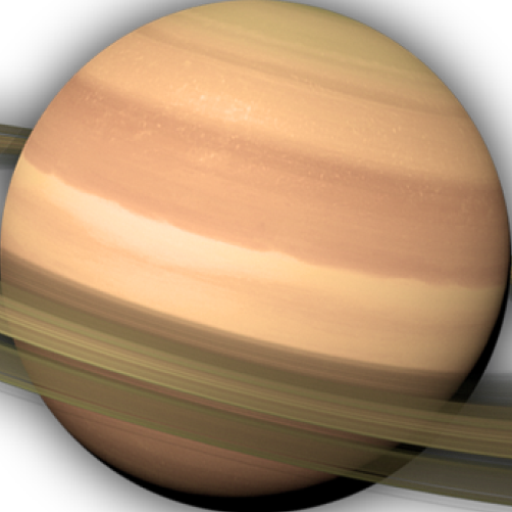
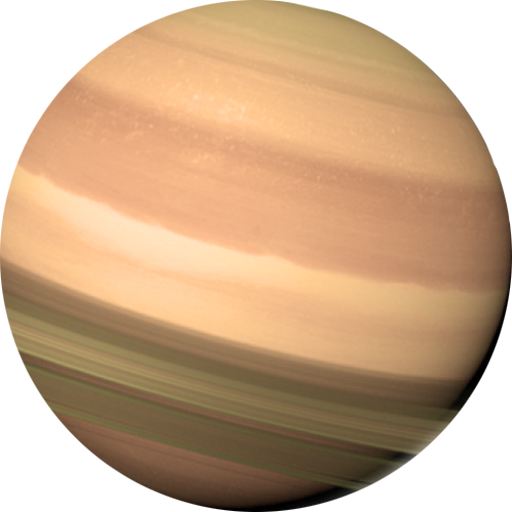
adjusted the navigation image

diff --git a/src/App.js b/src/App.js
@@ -57,44 +57,52 @@ function App() {
                     <nav>
                         <div className="nav-circle">
                             <div className="planet-link-circle">
-                                <div className='merImg'>
-                                    <Link to="/Mercury"><div className="planet-link-circle">Mercury</div></Link>
-                                </div>
+                                <Link to="/Mercury">
+                                    <div class="merImg"></div>
+                                    <div class="text-container">Mercury</div>
+                                </Link>
                             </div>
                             <div className="planet-link-circle">
-                                <div className='venImg'>
-                                    <Link to="/Venus"><div className="planet-link-circle">Venus</div></Link>
-                                </div>
+                                <Link to="/Venus">
+                                    <div class="venImg"></div>
+                                    <div class="text-container">Venus</div>
+                                </Link>
                             </div>
                             <div className="planet-link-circle">
-                                <div className='earImg'>
-                                    <Link to="/Earth"><div className="planet-link-circle">Earth</div></Link>
-                                </div>
+                                <Link to="/Earth">
+                                    <div class="earImg"></div>
+                                    <div class="text-container">Earth</div>
+                                </Link>
                             </div>
                             <div className="planet-link-circle">
-                                <div className='marImg'>
-                                    <Link to="/Mars"><div className="planet-link-circle">Mars</div></Link>
-                                </div>
+                                <Link to="/Mars">
+                                    <div class="marImg"></div>
+                                    <div class="text-container">Mars</div>
+                                </Link>
                             </div>
                             <div className="planet-link-circle">
-                                <div className='jupImg'>
-                                    <Link to="/Jupiter"><div className="planet-link-circle">Jupiter</div></Link>
-                                </div>
+                                <Link to="/Jupiter">
+                                    <div class="jupImg"></div>
+                                    <div class="text-container">Jupiter</div>
+                                </Link>
                             </div>
                             <div className="planet-link-circle">
-                                <div className='satImg'>
-                                    <Link to="/Saturn"><div className="planet-link-circle">Saturn</div></Link>
-                                </div>
+                                <Link to="/Saturn">
+                                    <div class="satImg"></div>
+                                    <div class="text-container">Saturn</div>
+                                </Link>
                             </div>
                             <div className="planet-link-circle">
-                                <div className='uraImg'>
-                                    <Link to="/Uranus"><div className="planet-link-circle">Uranus</div></Link>
-                                </div>
+                                <Link to="/Uranus">
+                                    <div class="uraImg"></div>
+                                    <div class="text-container">Uranus</div>
+                                </Link>
                             </div>
                             <div className="planet-link-circle">
-                                <div className='nepImg'>
-                                    <Link to="/Neptune"><div className="planet-link-circle">Neptune</div></Link>
-                                </div>
+                                <Link to="/Neptune">
+                                    <div class="nepImg"></div>
+                                    <div class="text-container">Neptune</div>
+                                </Link>
                             </div>
                         </div>
                     </nav>

diff --git a/src/App.css b/src/App.css
@@ -66,7 +66,6 @@ h2 {
   justify-content: center;
   margin: 10px;
   transition: width 1s, height 1s, background-color 1s, transform 1s;
-  transform: rotate(0deg);
 }
 
 .planet-link-circle a {
@@ -74,65 +73,113 @@ h2 {
   color: aliceblue;
   text-shadow: 3px 3px 2px #6a186a;
   text-decoration: none;
+  position: relative;
 }
 
-.merImg :hover {
+.text-container {
+  position: absolute;
+  top: 50%;
+  left: 50%;
+  transform: translate(-50%, -50%);
+  z-index: 1;
+  font-weight: bold;
+  text-shadow: -3px 0 #6a186a, 0 3px #6a186a, 3px 0 #6a186a, 0 -3px #6a186a;
+}
+
+.merImg {
   background-image: url("images/mercury.png");
   background-size: cover;
-  color: #000;
-  font-weight: bold;
-  text-shadow: -1px 0 #6a186a, 0 1px #6a186a, 1px 0 #6a186a, 0 -1px #6a186a;
+  width: 120px;
+  height: 120px;
+  transition: transform 3s;
 }
 
-.venImg :hover {
+.merImg:hover {
+  transform: rotate(360deg);
+}
+
+.venImg {
   background-image: url("images/venus.png");
   background-size: cover;
-  color: #000;
-  font-weight: bold;
-  text-shadow: -1px 0 #6a186a, 0 1px #6a186a, 1px 0 #6a186a, 0 -1px #6a186a;
+  width: 120px;
+  height: 120px;
+  transition: transform 3s;
 }
 
-.earImg :hover {
+.venImg:hover {
+  transform: rotate(360deg);
+}
+
+.earImg {
   background-image: url("images/earth.png");
   background-size: cover;
-  font-weight: bold;
-  text-shadow: -2px 0 #6a186a, 0 2px #6a186a, 2px 0 #6a186a, 0 -2px #6a186a;
+  width: 120px;
+  height: 120px;
+  transition: transform 3s;
 }
 
-.marImg :hover {
+.earImg:hover {
+  transform: rotate(360deg);
+}
+
+.marImg {
   background-image: url("images/mars.png");
   background-size: cover;
-  font-weight: bold;
-  text-shadow: -2px 0 #6a186a, 0 2px #6a186a, 2px 0 #6a186a, 0 -2px #6a186a;
+  width: 120px;
+  height: 120px;
+  transition: transform 3s;
 }
 
-.jupImg :hover {
+.marImg:hover {
+  transform: rotate(360deg);
+}
+
+.jupImg {
   background-image: url("images/jupiter.png");
   background-size: cover;
-  color: #000;
-  font-weight: bold;
-  text-shadow: -1px 0 #6a186a, 0 1px #6a186a, 1px 0 #6a186a, 0 -1px #6a186a;
+  width: 120px;
+  height: 120px;
+  transition: transform 3s;
 }
 
-.satImg :hover {
+.jupImg:hover {
+  transform: rotate(360deg);
+}
+
+.satImg {
   background-image: url("images/saturnNav.png");
   background-size: cover;
-  font-weight: bold;
-  text-shadow: -2px 0 #6a186a, 0 2px #6a186a, 2px 0 #6a186a, 0 -2px #6a186a;
+  width: 120px;
+  height: 120px;
+  transition: transform 3s;
 }
 
-.uraImg :hover {
+.satImg:hover {
+  transform: rotate(360deg);
+}
+
+.uraImg {
   background-image: url("images/uranus.png");
   background-size: cover;
-  font-weight: bold;
-  text-shadow: -2px 0 #6a186a, 0 2px #6a186a, 2px 0 #6a186a, 0 -2px #6a186a;
+  width: 120px;
+  height: 120px;
+  transition: transform 3s;
 }
 
-.nepImg :hover {
+.uraImg:hover {
+  transform: rotate(360deg);
+}
+
+.nepImg {
   background-image: url("images/neptune.png");
   background-size: cover;
-  font-weight: bold;
-  text-shadow: -2px 0 #6a186a, 0 2px #6a186a, 2px 0 #6a186a, 0 -2px #6a186a;
+  width: 120px;
+  height: 120px;
+  transition: transform 3s;
+}
+
+.nepImg:hover {
+  transform: rotate(360deg);
 }
 
 .planet-link-circle a:active,
@@ -190,6 +237,18 @@ nav ul {
   p {
     font-size: 12px;
   }
+
+  .merImg,
+  .venImg,
+  .earImg,
+  .marImg,
+  .jupImg,
+  .satImg,
+  .uraImg,
+  .nepImg {
+    width: 100px;
+    height: 100px;
+  }
 }
 
 @media screen and (max-width: 800px) {
@@ -212,6 +271,18 @@ nav ul {
 
   p {
     font-size: 15px;
+  }
+
+  .merImg,
+  .venImg,
+  .earImg,
+  .marImg,
+  .jupImg,
+  .satImg,
+  .uraImg,
+  .nepImg {
+    width: 110px;
+    height: 110px;
   }
 }
 
